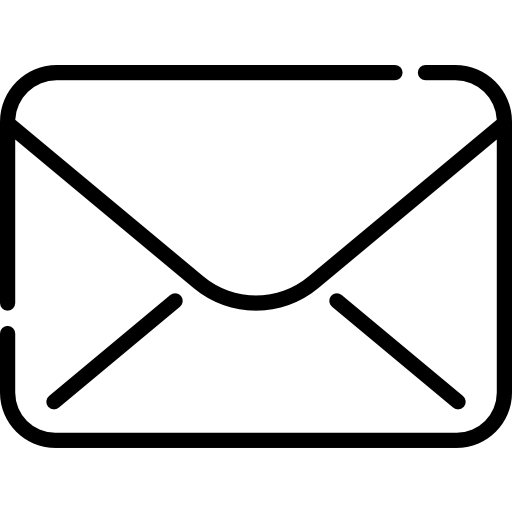
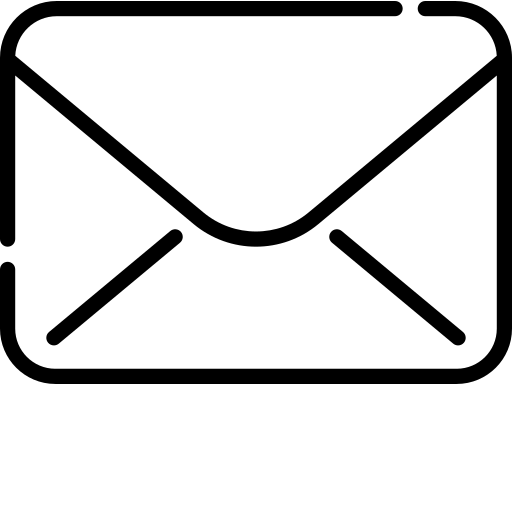
Styling hero

Changed region(s): [[0.0, 0.0, 1.0, 0.875], [0.0, 0.4688, 0.0312, 0.5312]]

diff --git a/src/components/Hero2/Hero2.jsx b/src/components/Hero2/Hero2.jsx
@@ -3,10 +3,14 @@ import React, { useState, useEffect } from "react";
 import cloudBgLight from "../../assets/hero2/cloud-bg-light.png";
 import cloudBgDark from "../../assets/hero2/cloud-bg-dark.png";
 import { useTheme } from "@mui/material/styles";
-import githubIcon from "../../assets/hero2/github.png";
-import linkedinIcon from "../../assets/hero2/linkedin.png";
-import whatsappIcon from "../../assets/hero2/whatsapp.png";
-import emailIcon from "../../assets/hero2/email.png";
+import githubIconBlack from "../../assets/hero2/github.png";
+import linkedinIconBlack from "../../assets/hero2/linkedin.png";
+import whatsappIconBlack from "../../assets/hero2/whatsapp.png";
+import emailIconBlack from "../../assets/hero2/email.png";
+import githubIconWhite from "../../assets/hero2/github_white.png";
+import linkedinIconWhite from "../../assets/hero2/linkedin_white.png";
+import whatsappIconWhite from "../../assets/hero2/whatsapp_white.png";
+import emailIconWhite from "../../assets/hero2/email_white.png";
 import { cv } from "../../data/contact";
 import DownloadButton from "../DownloadButton/DownloadButton";
 import { contact } from "../../data/contact";
@@ -14,7 +18,17 @@ import { contact } from "../../data/contact";
 function Hero2() {
   const theme = useTheme();
   const isDarkTheme = theme.palette.mode === "dark";
+
   const bgImg = isDarkTheme ? cloudBgDark : cloudBgLight;
+
+  const icons = {
+    github: isDarkTheme ? githubIconWhite : githubIconBlack,
+    linkedin: isDarkTheme ? linkedinIconWhite : linkedinIconBlack,
+    whatsapp: isDarkTheme ? whatsappIconWhite : whatsappIconBlack,
+    email: isDarkTheme ? emailIconWhite : emailIconBlack,
+  };
+
+
 
   const roles = ["Web Developer", "Cloud Engineer", "Tutor"];
   const [roleIndex, setRoleIndex] = useState(0);
@@ -91,7 +105,7 @@ function Hero2() {
             sx={{
               color: "text.primary",
               fontSize: { xs: "32px", md: "48px" },
-              fontWeight: {xs: 600, md: 500},
+              fontWeight: { xs: 600, md: 500 },
             }}
           >
             Hi, I'm Antonia
@@ -101,12 +115,12 @@ function Hero2() {
             sx={{
               color: "primary.main",
               fontSize: { xs: "32px", md: "48px" },
-              fontWeight: {xs: 600, md: 500},
+              fontWeight: { xs: 600, md: 500 },
               display: "inline-block",
               whiteSpace: "nowrap",
               overflow: "hidden",
               marginY: 1,
-              height: {xs: "48px", md: "64px"},
+              height: { xs: "48px", md: "64px" },
             }}
           >
             {role}
@@ -135,7 +149,7 @@ function Hero2() {
             rel="noopener noreferrer"
           >
             <img
-              src={githubIcon}
+              src={icons.github}
               alt="GitHub"
               style={{ width: 40, height: 40 }}
             />
@@ -150,7 +164,7 @@ function Hero2() {
             rel="noopener noreferrer"
           >
             <img
-              src={linkedinIcon}
+              src={icons.linkedin}
               alt="LinkedIn"
               style={{ width: 40, height: 40 }}
             />
@@ -165,7 +179,7 @@ function Hero2() {
             rel="noopener noreferrer"
           >
             <img
-              src={whatsappIcon}
+              src={icons.whatsapp}
               alt="WhatsApp"
               style={{ width: 40, height: 40 }}
             />
@@ -180,9 +194,9 @@ function Hero2() {
             rel="noopener noreferrer"
           >
             <img
-              src={emailIcon}
+              src={icons.email}
               alt="WhatsApp"
-              style={{ width: 40, height: 40 }}
+              style={{ marginTop: 10, width: 40, height: "auto" }}
             />
           </IconButton>
         </Box>
